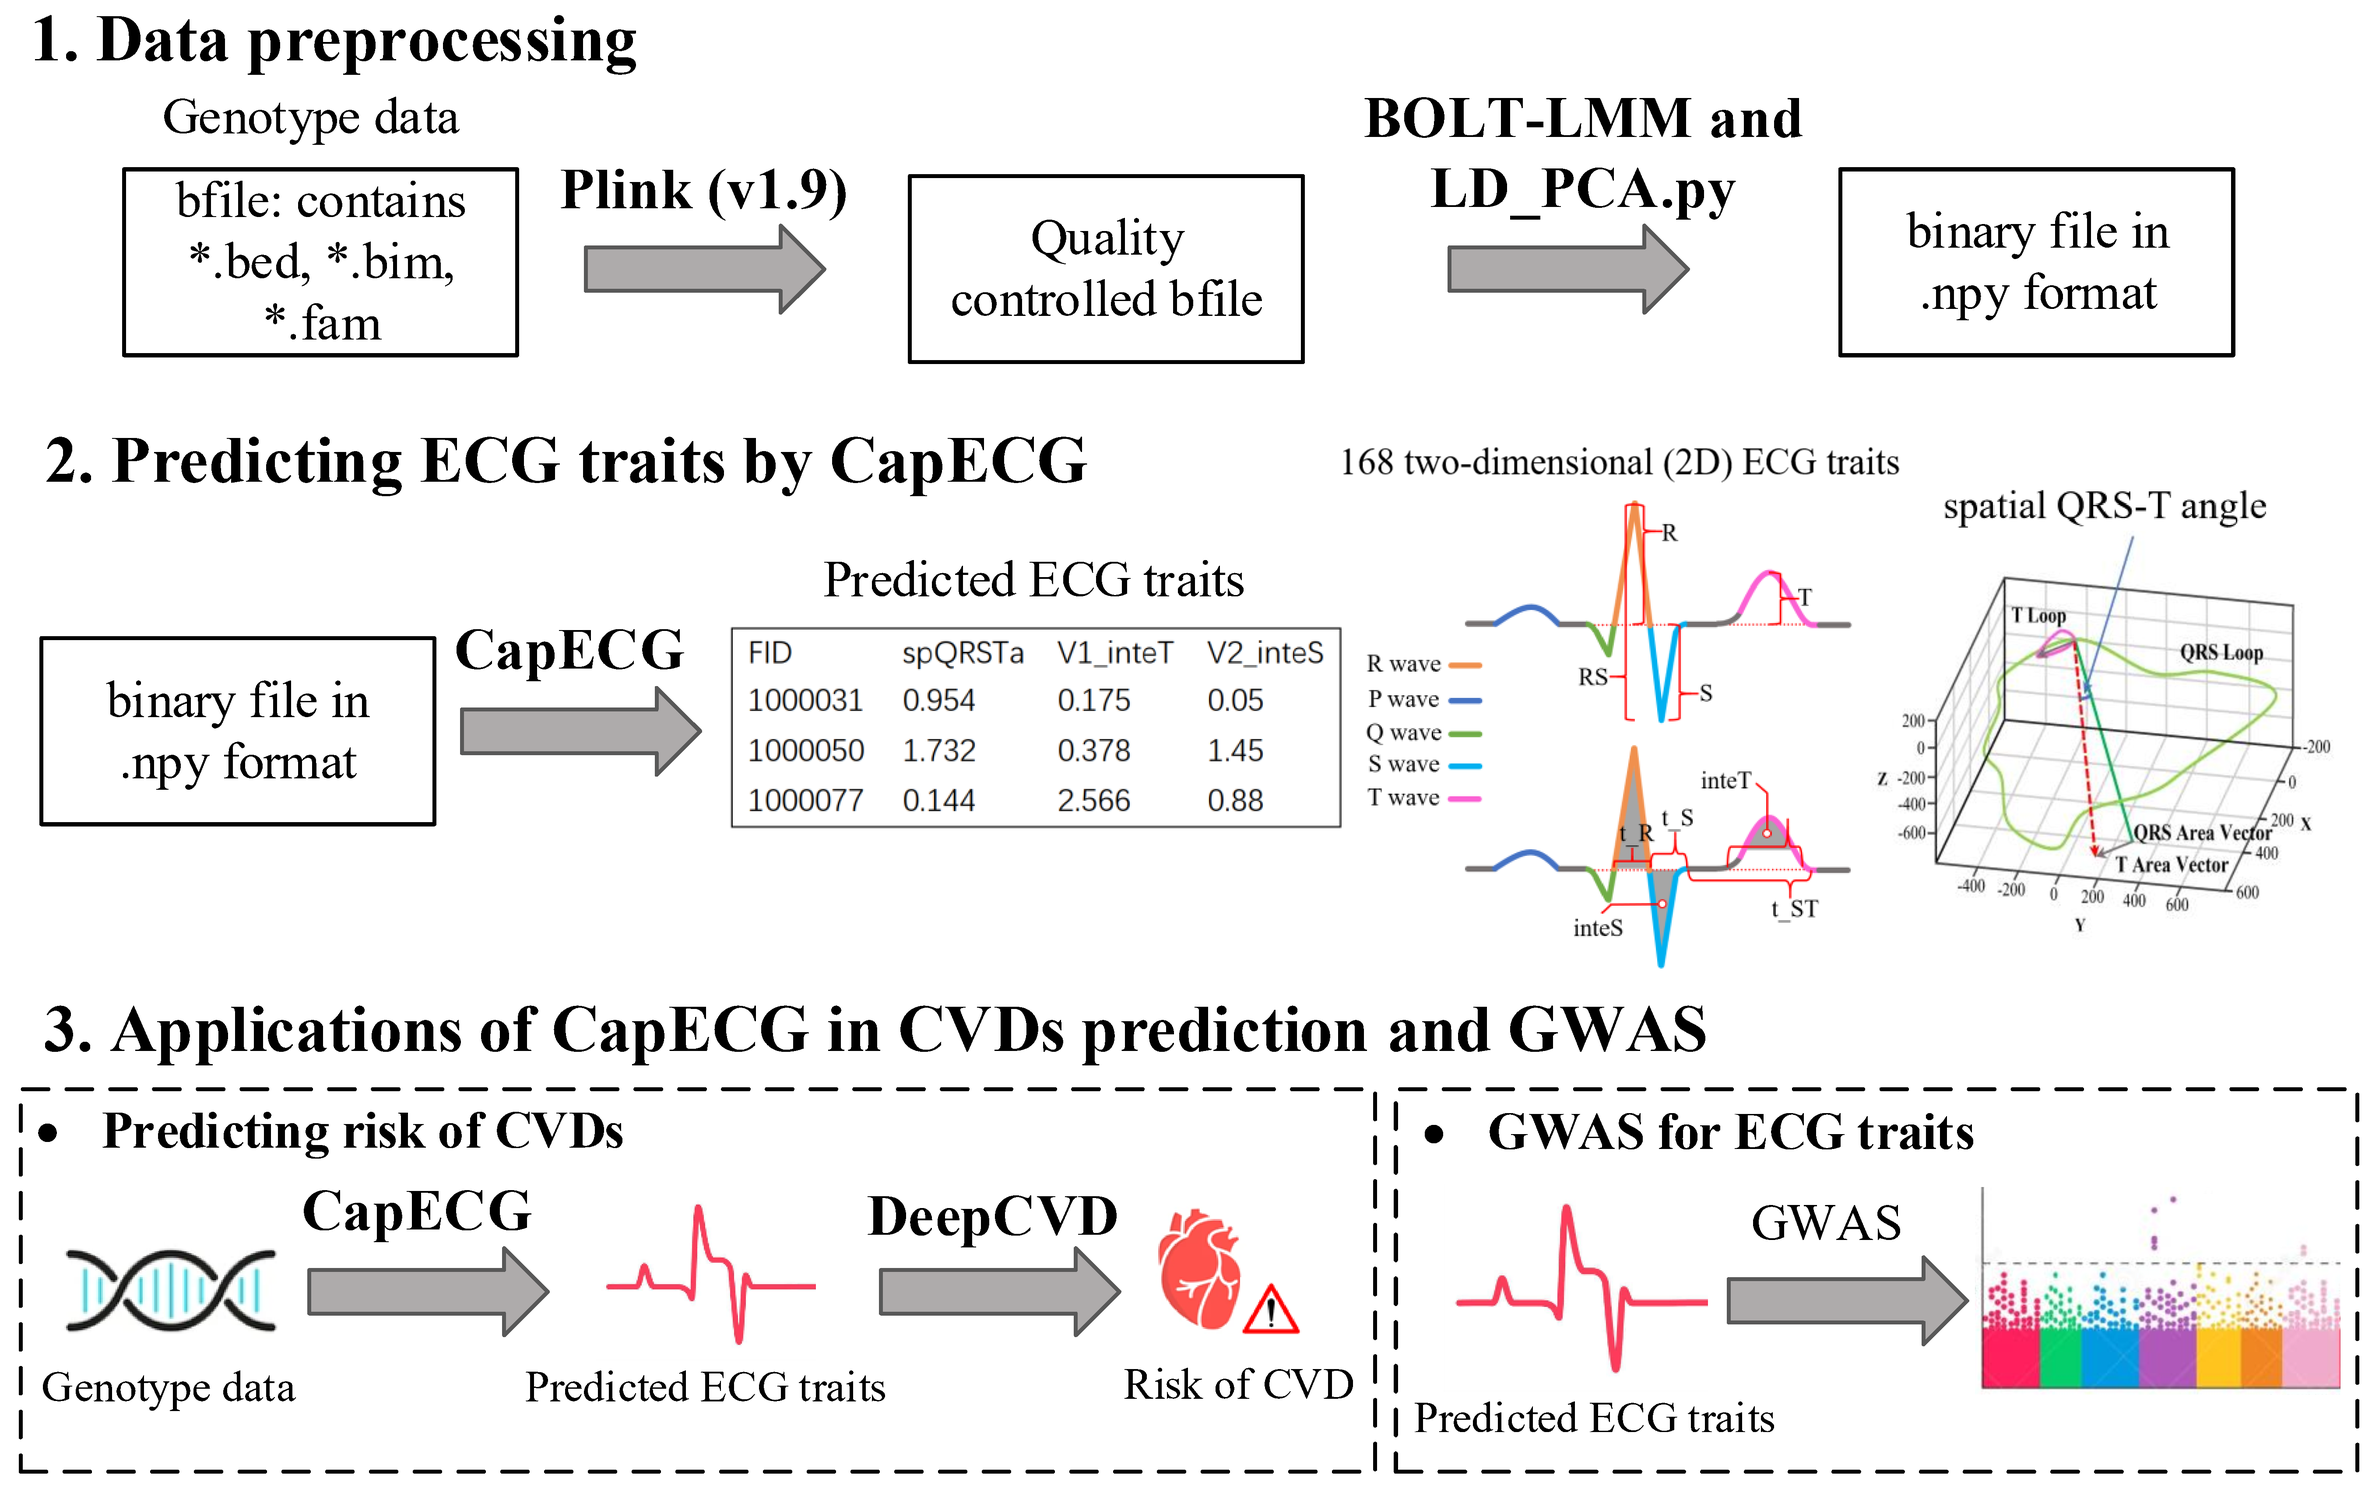
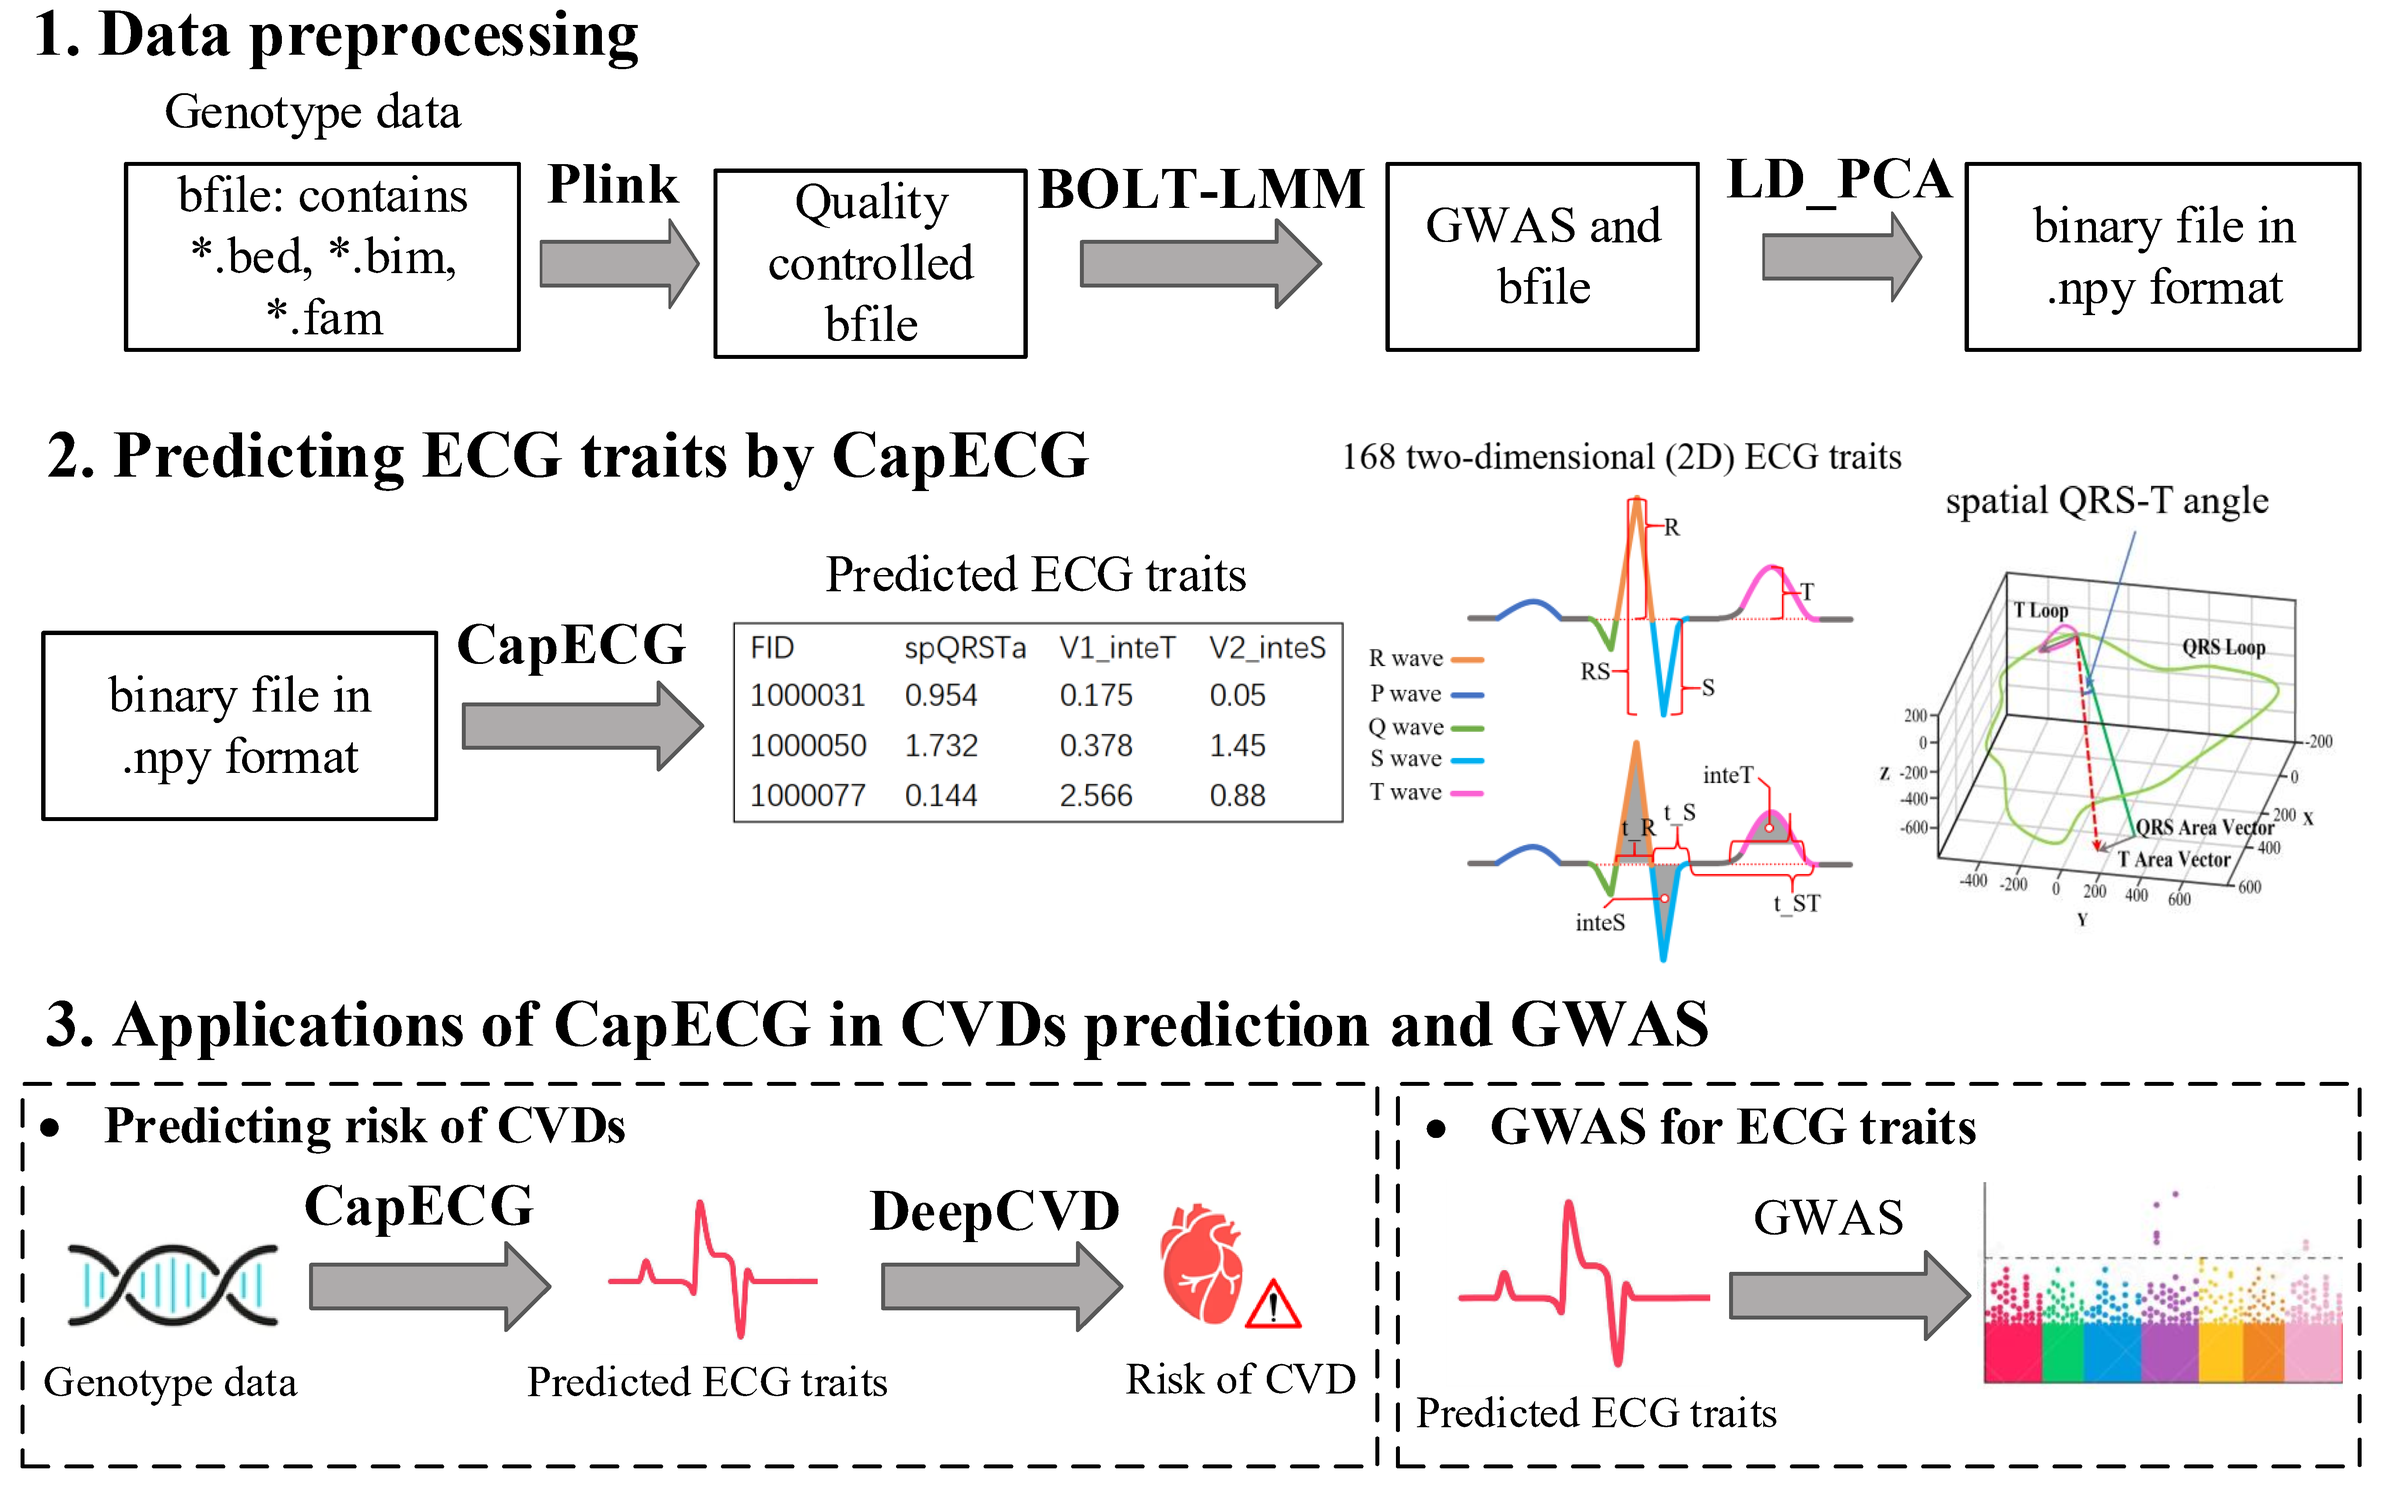
‘update’

diff --git a/README.md b/README.md
@@ -39,6 +39,7 @@ PLINK (v1.90) is used to perform quality control for genotype data in bfile form
 
 ```
 cd CapECG
+
 plink --bfile QCedSNPs --geno 0.0 --maf 0.01 --hwe 1e-5 midp include-nonctrl  --make-bed --out QCedSNPs.qc1
 
 plink --bfile QCedSNPs.qc1 --het --test-missing midp --pfilter 1e-4 --make-bed --out QCedSNPs.qc2
@@ -72,6 +73,8 @@ BOLT-LMM is used to perform GWAS for training data in bfile format. You need to 
 ```
 
 ### 1.4 Perform LD-PCA analysis
+
+![](figures/Step1.4.png)
 
 LD-PCA is used to reduce the data dimension using LD information for genotype data in bfile format. The results will be saved in "./data/trait". The code is:
 
